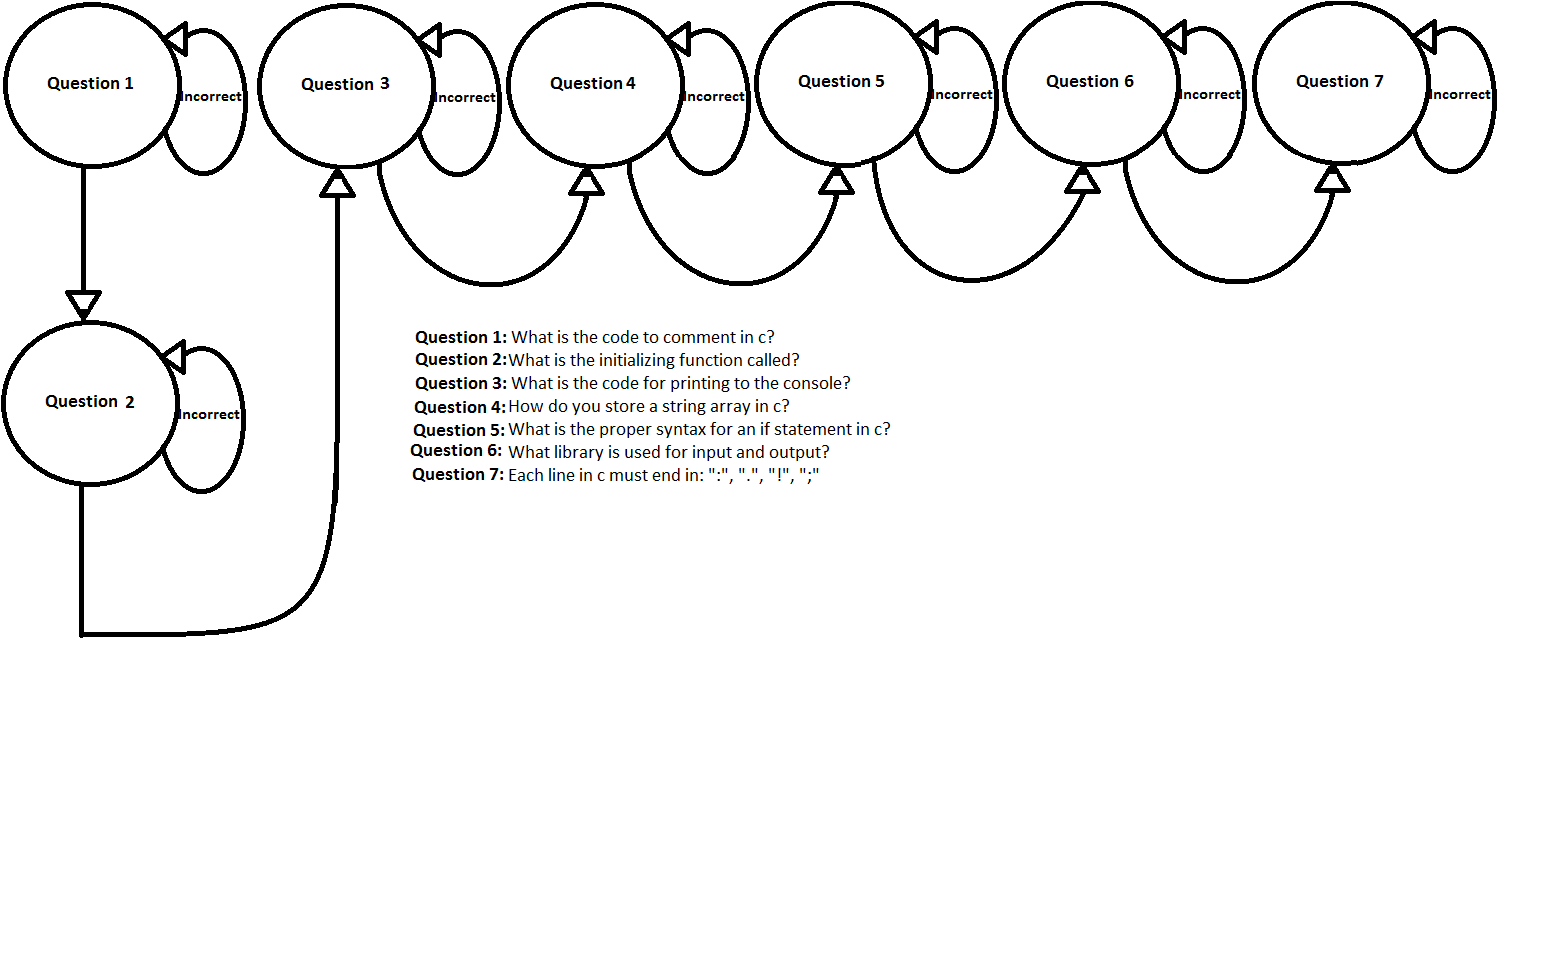
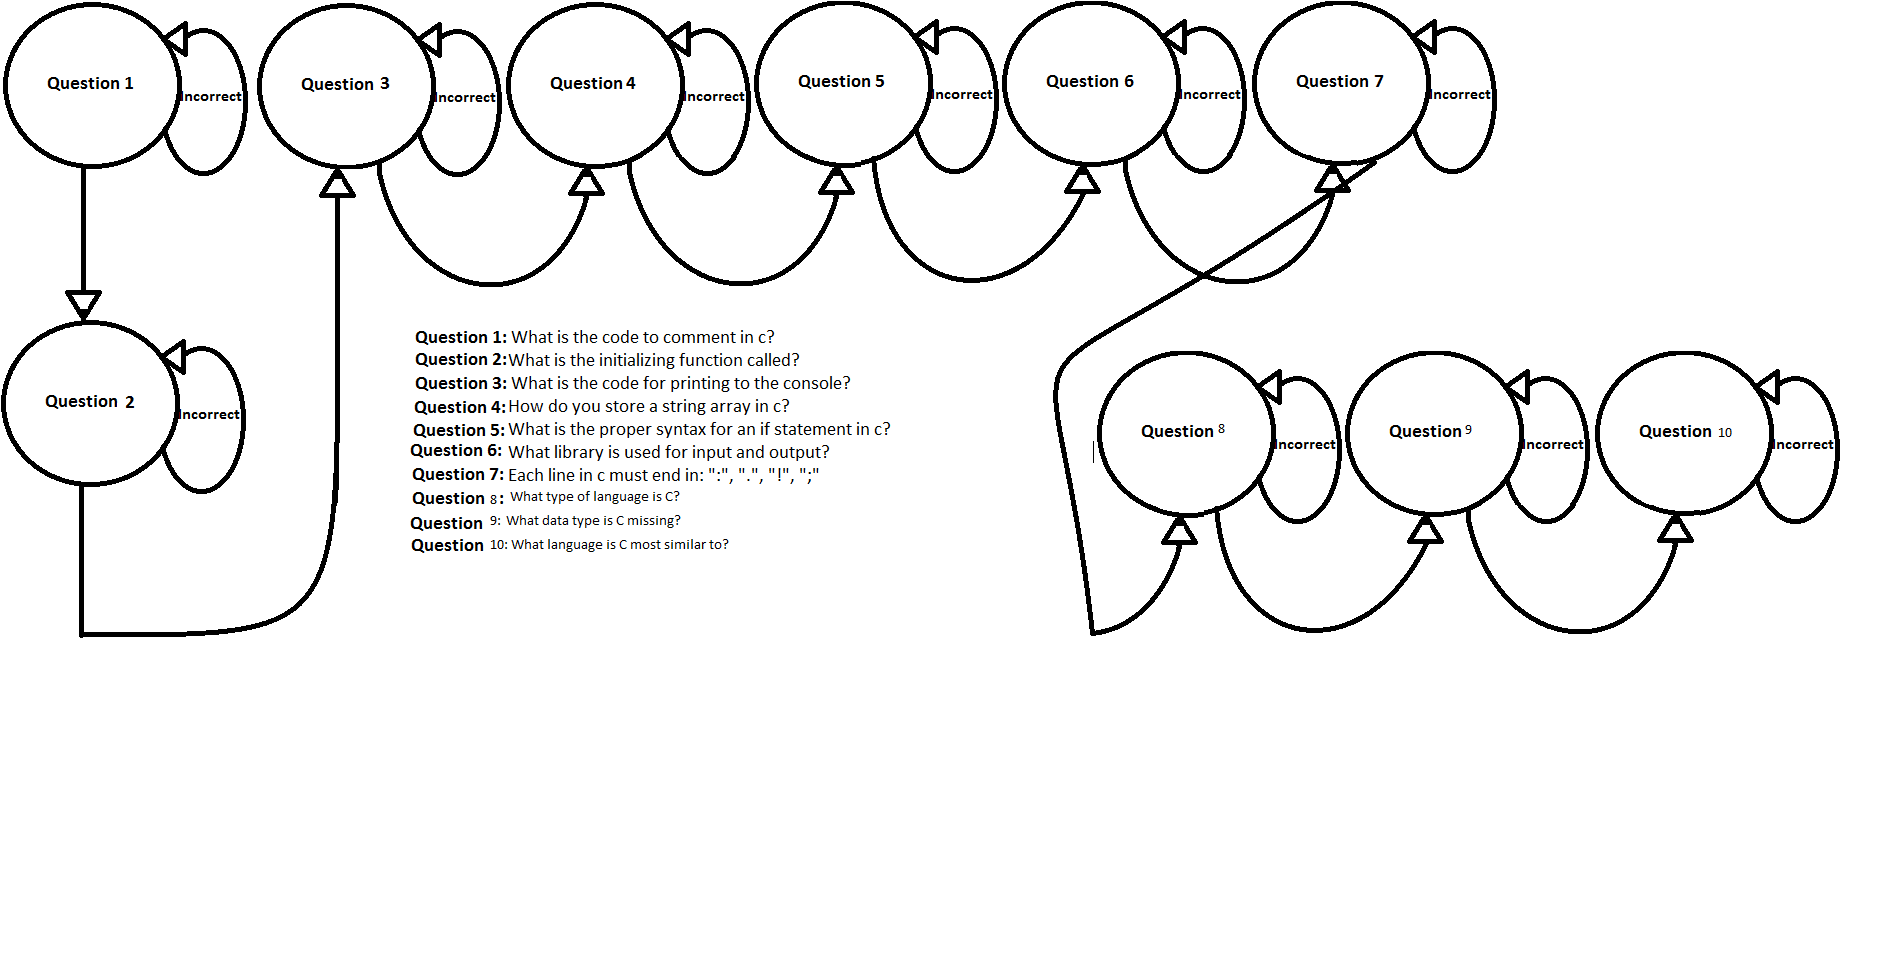
Added structres and functions

diff --git a/Quiz.c b/Quiz.c
@@ -1,44 +1,45 @@
 //includes extra resources the program uses
 #include <stdio.h>
 #include<stdlib.h>
+#include <string.h>
+#include "question.h" //include the question structure
+#include "player.h" //include the player structure
 
-void print_options(int index);
+void run_question_loop();//declare the run loop function
 
-//array of questions to ask
-char *questions[] = {"What is the code to comment in c?",
-"What is the initializing function called?", 
-"What is the code for printing to the console?",
-"How do you store a string array in c?",
-"What is the proper syntax for an if statement in c?",
-"What library is used for input and output?",
-"Each line in c must end in:"};
+//amount of question in the array
+int questions_amount = 10;
 
-//array of answers to questionsk
-char correct_answers[] = {'c',
-'b',
-'a',
-'d',
-'c',
-'b',
-'d'};
+Question questions[10]; //create an array of 10 questions
+
+Player player;
 
 char quit = 'q'; //in case user wants to exit the program
 
-//choices for quiz
-char *options_a[] = {"\\\\", "init()", "printf();", "string[] arrName", "if (condition) {body};", "#include <stdlib.h>", ":"};
-char *options_b[] = {"**", "main()", "prinf();", "char[] arrName", "if (body) {condition}", "#include <stdio.h>", "."};
-char *options_c[] = {"/**/", "start()", "print();", "string  arrName", "if (condition) {body}", "#include <time.h>", "!"};
-char *options_d[] = {"\\**\\", "initialize()", "type();", "*char[]  arrName", "if (\"true\") {body}", "#include <string.h>", ";"};
-
-//amount of question in the array
-int questions_amount = sizeof(questions) / sizeof(questions[0]);
-
 int main()
 {	 
+	init();
+
 	//intro to the quiz
 	printf("Amount of Questions: %d \n", questions_amount);
-	printf("Type \"%c\" to quit\n\n", quit);
+	printf("Type \"%c\" to quit\n\n", quit); //tell the user that they may quit by typing 'q'
+	printf("Lives: %i\n", player.lives); //print the amount of lives they have
 	
+	set_questions(); //set up all of the questions
+	
+	run_question_loop(); //run the main loop that will ask and re-ask the questions
+}
+
+void init()
+{
+	printf("Please Enter Your Name: ");
+	gets(player.name);
+	player.lives = 3;
+}
+
+//the main quiz loop
+void run_question_loop()
+{
 	int i; //interator
 	
 	//loops through each question and evaluates the answer
@@ -47,50 +48,137 @@ int main()
 		char answer[10]; /*stores answer of user*/
 	
 		//asks the question by printing it on the screen
-		printf("%i. Question: %s\n", i + 1, questions[i]);
+		print_question(questions[i]);
 		
 		//prints choices for user
-		print_options(i);
+		print_answers(questions[i]);
 		
+		//prints "Answer"
 		printf("Answer: ");
 		
 		//allows user to asnwer the  question, and stores the answer in the answer variable
 		gets(answer);
 		
-		//checks if answer is correct
-		if (answer[0] == correct_answers[i])
+		//stores the answer correctness result
+		int answer_result = check_answer(answer[0], questions[i].answer);
+		
+		//checks the answer
+		if (!answer_result)
 		{
-			//proceeds to the next question of answer is correct
-			printf("Correct! :)\n");
-			printf("\n--------------------------\n\n");
-		}
-		else if (answer[0] == quit)
-		{
-			//exits the quiz if user types in 'q'
-			printf(":'(");
-			exit(0);
-		}
-		else
-		{
-			//stays at the current question because user got it wrong
-			printf("Incorrect! :(\n\n");
+			//checks of the user inputted 'q' to quit
+			check_quit(answer[0]);
+			//make the question repeat
 			i--;
+			
+			//loose a life
+			lose_life(player);
 		}
 		
-		//if this is the last question, then print "Great Job!
+		//if this is the last question, then print "Great Job!" and the amount of lives
 		if (i == questions_amount - 1)
 		{
-			printf("Great Job!");
+			printf("Great Job :)\n");
+			printf("You ended with: %i lives!", player.lives);
 		}
 	}
 }
 
-//prints options for the question at the given index
-void print_options(int index)
+//sets the questions up
+void set_questions()
 {
-	printf("a) %s\n", options_a[index]);
-	printf("b) %s\n", options_b[index]);
-	printf("c) %s\n", options_c[index]);
-	printf("d) %s\n", options_d[index]);
+	questions[0].number = 1;
+	strcpy(questions[0].question, "What is the code to comment in c?");
+	questions[0].answer = 'c';
+	questions[0].answers[0] = "\\\\";
+	questions[0].answers[1] = "**";
+	questions[0].answers[2] = "/**/";
+	questions[0].answers[3] = "\\**\\";
+	
+	questions[1].number = 2;
+	strcpy(questions[1].question, "What is the initializing function called?");
+	questions[1].answer = 'b';
+	questions[1].answers[0] = "init()";
+	questions[1].answers[1] = "main()";
+	questions[1].answers[2] = "start()";
+	questions[1].answers[3] = "initialize()";
+	
+	questions[2].number = 3;
+	strcpy(questions[2].question, "What is the code for printing to the console?");
+	questions[2].answer = 'a';
+	questions[2].answers[0] = "printf();";
+	questions[2].answers[1] = "prinf();";
+	questions[2].answers[2] = "print();";
+	questions[2].answers[3] = "type();";
+	
+	questions[3].number = 4;
+	strcpy(questions[3].question, "How do you store a string array in c?");
+	questions[3].answer = 'd';
+	questions[3].answers[0] = "string[] arrName";
+	questions[3].answers[1] = "char[] arrName";
+	questions[3].answers[2] = "string  arrName";
+	questions[3].answers[3] = "*char[]  arrName";
+	
+	questions[4].number = 5;
+	strcpy(questions[4].question, "What is the proper syntax for an if statement in c?");
+	questions[4].answer = 'c';
+	questions[4].answers[0] = "if (condition) {body};";
+	questions[4].answers[1] = "if (body) {condition}";
+	questions[4].answers[2] = "if (condition) {body}";
+	questions[4].answers[3] = "if (\"true\") {body}";
+	
+	questions[5].number = 6;
+	strcpy(questions[5].question, "What library is used for input and output?");
+	questions[5].answer = 'b';
+	questions[5].answers[0] = "#include <stdlib.h>";
+	questions[5].answers[1] = "#include <stdio.h>";
+	questions[5].answers[2] = "#include <time.h>";
+	questions[5].answers[3] = "#include <string.h>";
+	
+	questions[6].number = 7;
+	strcpy(questions[6].question, "Each line in c must end in:");
+	questions[6].answer = 'd';
+	questions[6].answers[0] = ":";
+	questions[6].answers[1] = ".";
+	questions[6].answers[2] = "!";
+	questions[6].answers[3] = ";";
+	
+	questions[7].number = 8;
+	strcpy(questions[7].question, "C is a:");
+	questions[7].answer = 'a';
+	questions[7].answers[0] = "Structured Language";
+	questions[7].answers[1] = "OOP Language";
+	questions[7].answers[2] = "Both";
+	questions[7].answers[3] = "None";
+	
+	questions[8].number = 9;
+	strcpy(questions[8].question, "C is most similar to:");
+	questions[8].answer = 'b';
+	questions[8].answers[0] = "Python";
+	questions[8].answers[1] = "C++";
+	questions[8].answers[2] = "C#";
+	questions[8].answers[3] = "Java";
+	
+	questions[9].number = 10;
+	strcpy(questions[9].question, "C is missing the data type of:");
+	questions[9].answer = 'c';
+	questions[9].answers[0] = "Integer";
+	questions[9].answers[1] = "Floating Point Number";
+	questions[9].answers[2] = "String";
+	questions[9].answers[3] = "Char";
+}
+
+void check_quit(char answer)
+{
+	if (answer == quit)
+	{
+		quit_quiz();
+	}
+}
+
+void quit_quiz()
+{
+	//exits the quiz if user types in 'q'
+	printf("You Lose! :'(");
+	exit(0);
 }
 

diff --git a/question.h b/question.h
@@ -1,0 +1,46 @@
+#include <stdio.h> //input output library included
+
+//define struct for questions
+typedef struct
+{
+	int number; //the number of the struct
+	char question[1000]; //the question
+	char answer; //the answer from the options
+	char *answers[4]; //the choices
+}Question;
+
+//prints question
+void print_question(Question q)
+{
+	printf("%i. Question: %s\n", q.number, q.question); //print the number and the question
+}
+
+//print all of the options for the question
+void print_answers(Question q)
+{
+	//print a, b, c, and d choices
+	printf("a) %s\n", q.answers[0]);
+	printf("b) %s\n", q.answers[1]);
+	printf("c) %s\n", q.answers[2]);
+	printf("d) %s\n", q.answers[3]);
+}
+
+//check the answer with the correct answer
+int check_answer(char user_answer, char correct_answer)
+{
+	//checks if answer is correct
+	if (user_answer == correct_answer)
+	{
+		//proceeds to the next question of answer is correct
+		printf("Correct! :)\n");
+		printf("\n--------------------------\n\n");
+		return 1;
+	}
+	else
+	{
+		//stays at the current question because user got it wrong
+		printf("Incorrect! :(\n\n");
+		return 0;
+	}
+}
+

diff --git a/player.h b/player.h
@@ -1,0 +1,28 @@
+#include <stdio.h>
+
+typedef struct
+{
+	char name[100];
+	int lives;
+}Player;
+
+void getName(Player *player)
+{
+
+
+
+}
+void lose_life(Player player)
+{
+	player.lives -= 1; //subtracts a life
+	printf("Lives: %i\n", player.lives); //print the amount of lives again
+	
+	//checks if the lives have depleted
+	if (player.lives <= 0)
+	{
+		//exits the quiz if user types in 'q'
+		printf("You Lose! :'(");
+		exit(0);
+	}
+}
+
